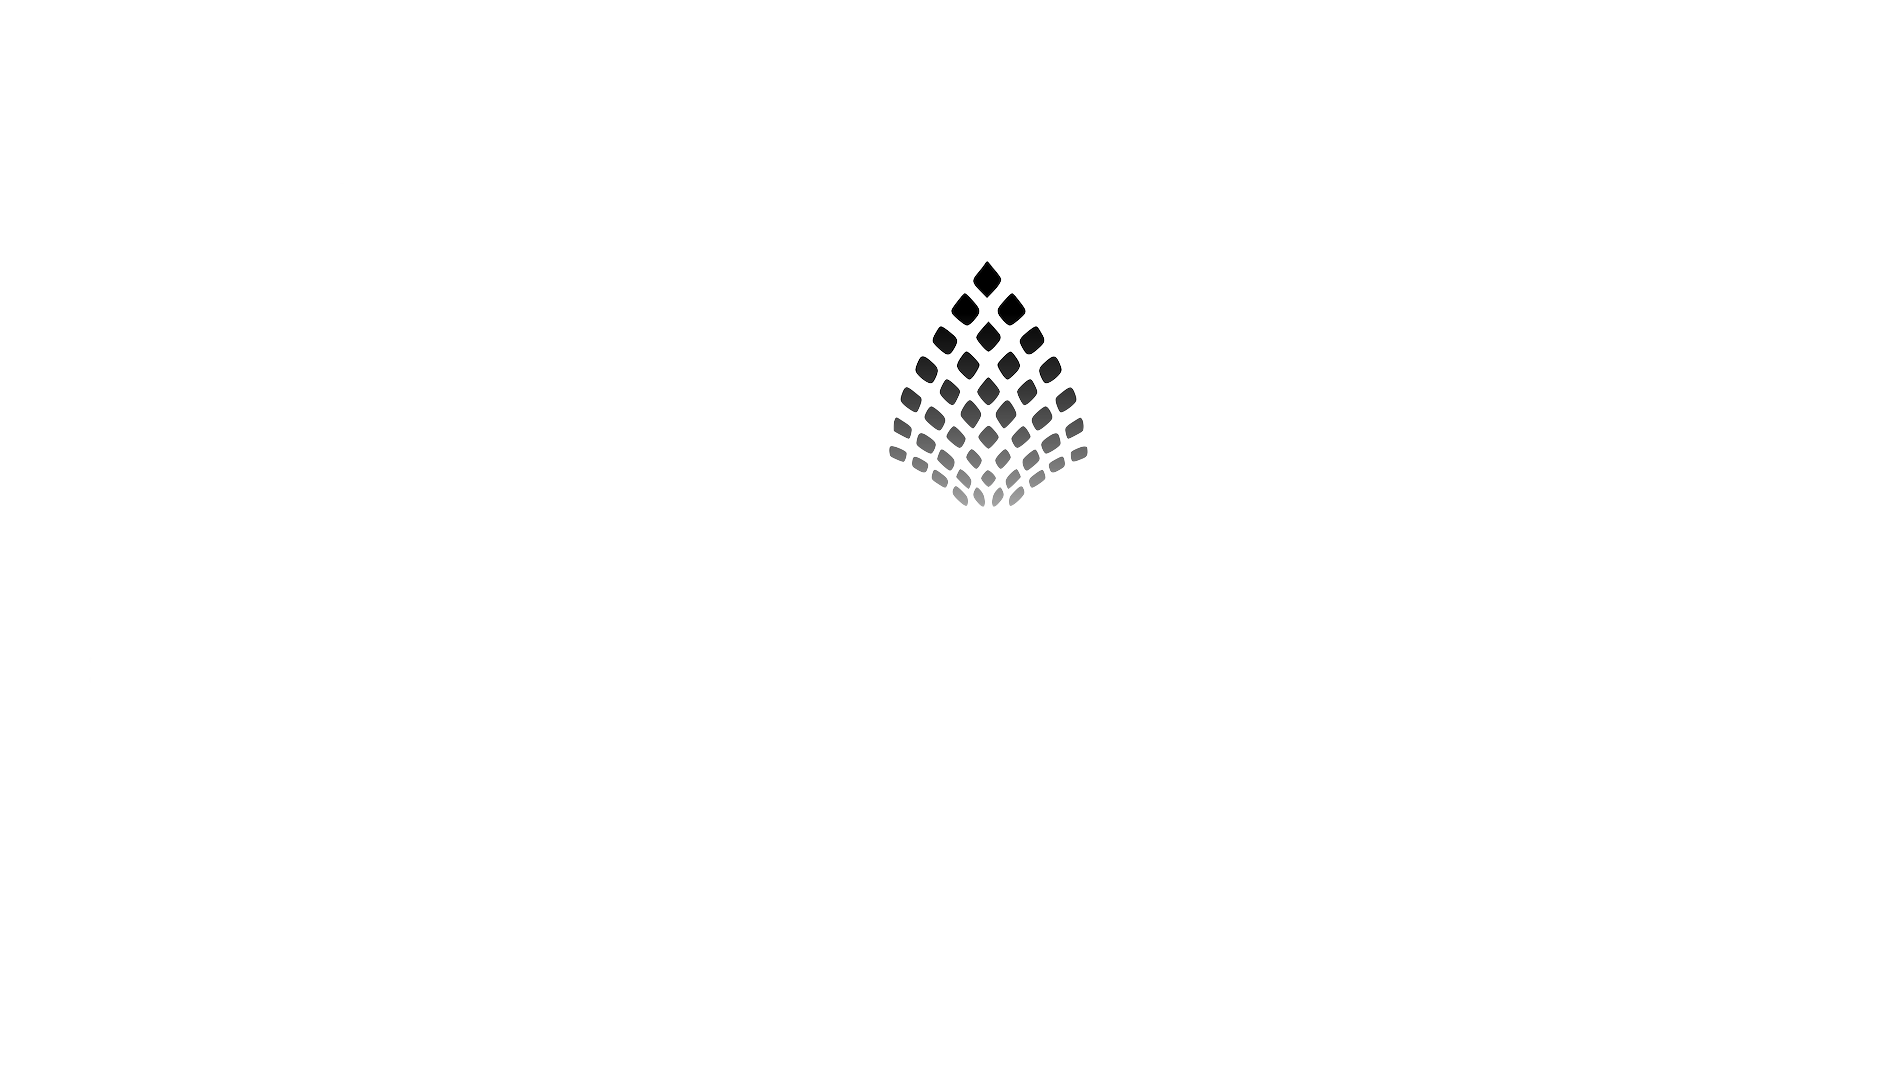
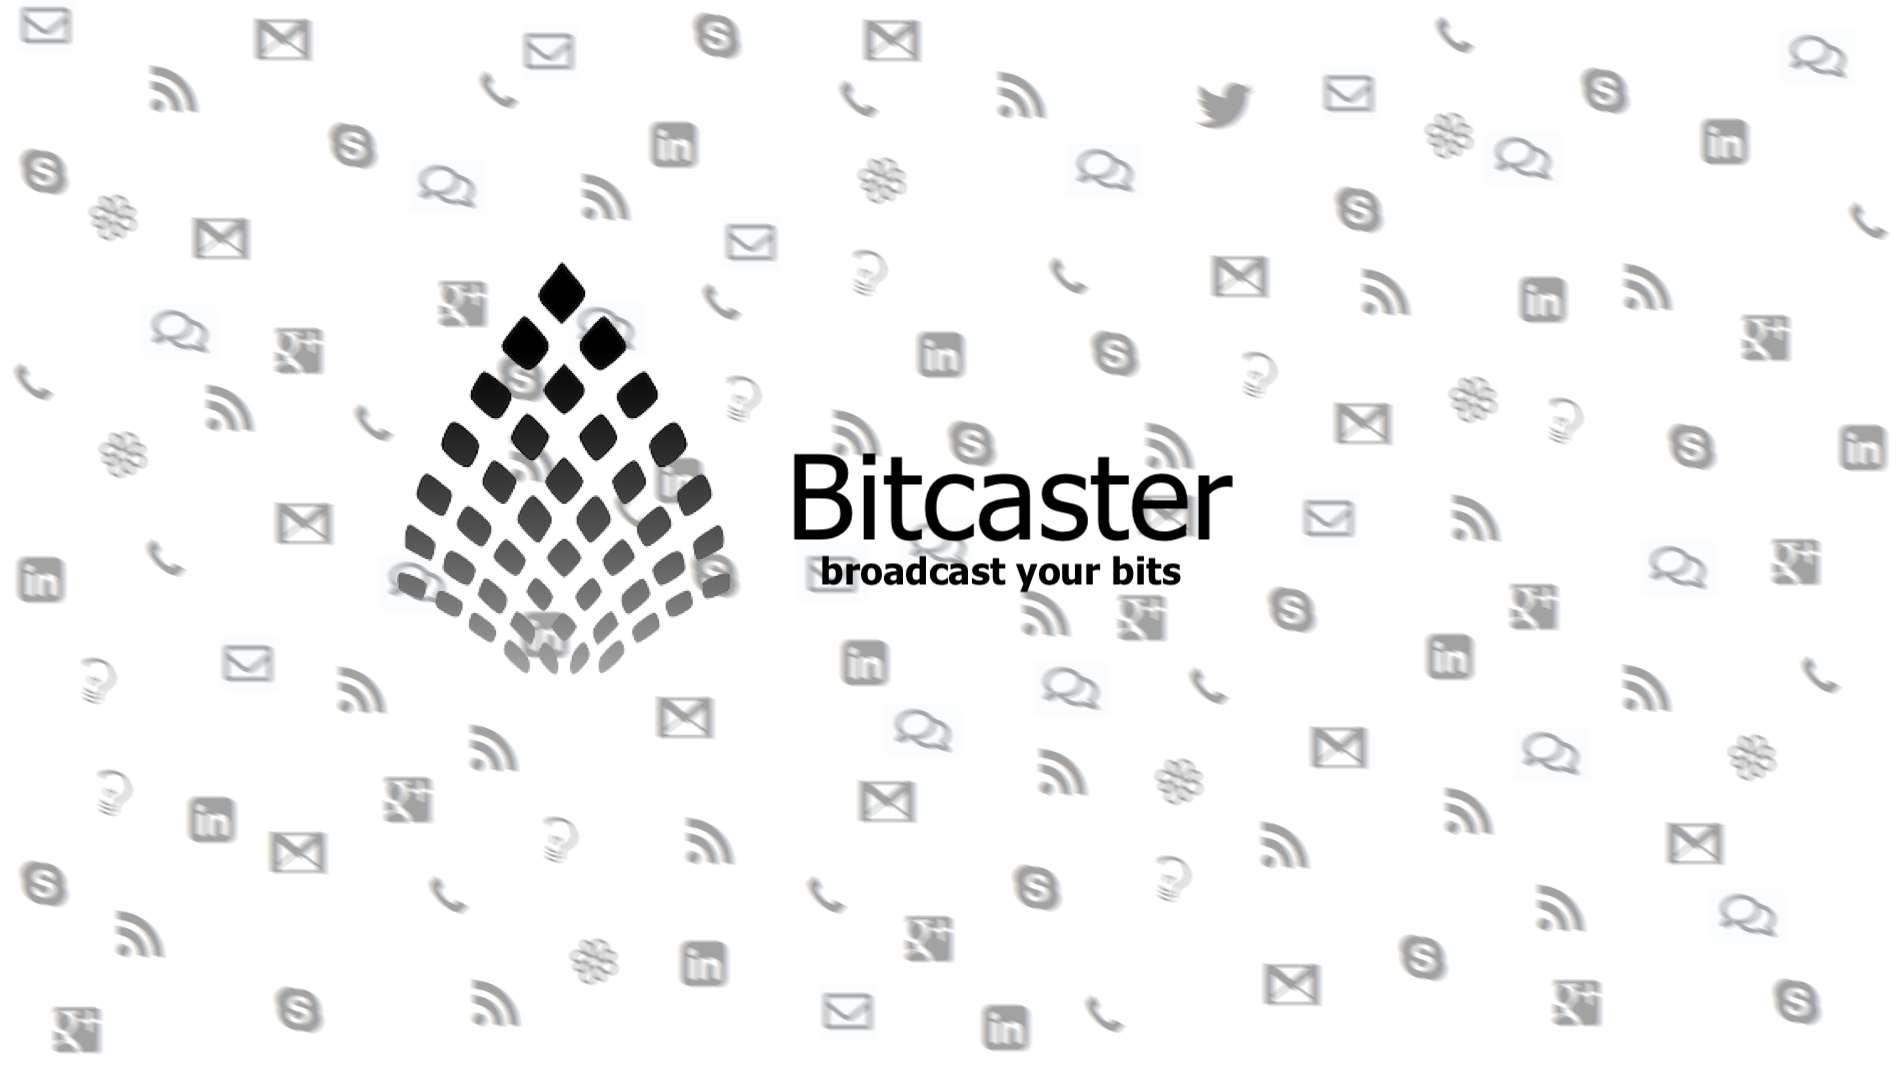
updates carousel

diff --git a/src/templates/index.html b/src/templates/index.html
@@ -10,9 +10,9 @@
             <div class="carousel-inner" role="listbox">
                 <!-- Slide One - Set the background image for this slide in the line below -->
                 <div class="carousel-item active" style="background-image: url('/static/carousel1.png')">
-                    <div class="carousel-caption d-none d-md-block bg-dark">
-                        <h3>Bitcaster</h3>
-                        <p>broadcast your bits</p>
+                    <div class="carousel-caption d-none d-md-block bg-ligth">
+{#                        <h3>Bitcaster</h3>#}
+{#                        <p>broadcast your bits</p>#}
                     </div>
                 </div>
                 <!-- Slide Two - Set the background image for this slide in the line below -->
@@ -25,8 +25,8 @@
                 <!-- Slide Three - Set the background image for this slide in the line below -->
                 <div class="carousel-item" style="background-image: url('/static/carousel3.png')">
                     <div class="carousel-caption d-none d-md-block">
-{#                        <h3>Third Slide</h3>#}
-{#                        <p>This is a description for the third slide.</p>#}
+                        <h3>Third Slide</h3>
+                        <p>This is a description for the third slide.</p>
                     </div>
                 </div>
             </div>
@@ -126,6 +126,9 @@
 {#                    </div>#}
                 </div>
             </div>
+        </div>
+        <div class="container-fluid">
+            <div class="row">&nbsp;</div>
         </div>
         <!-- /.row -->
 
